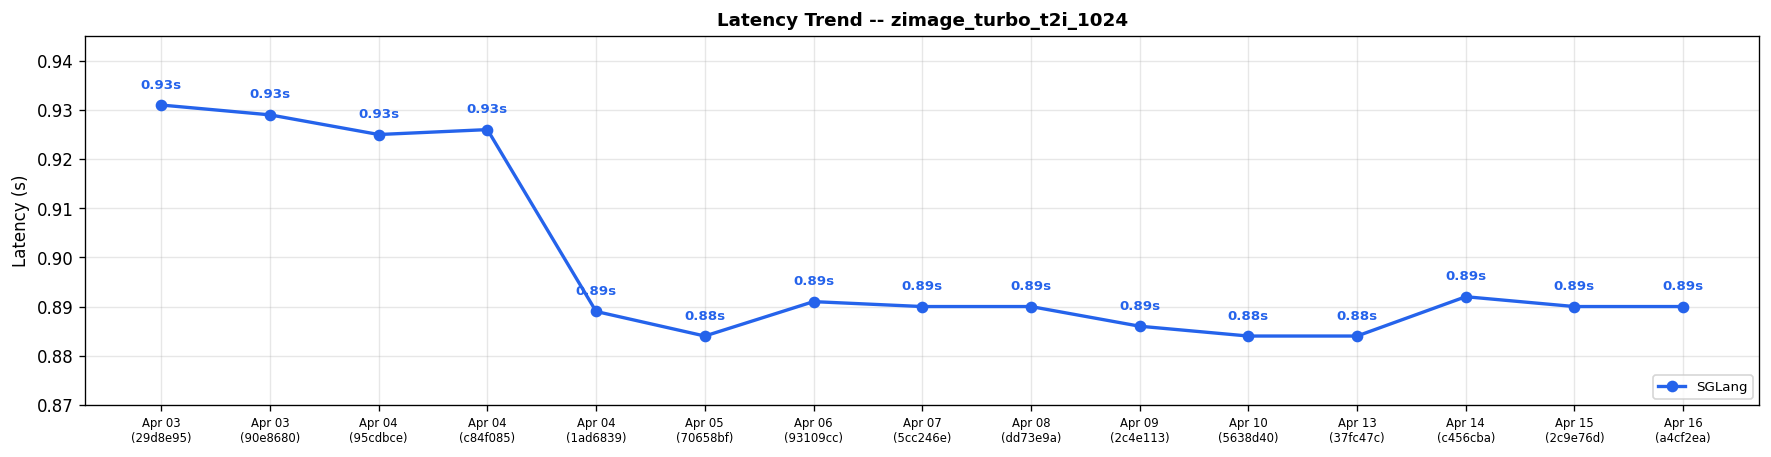
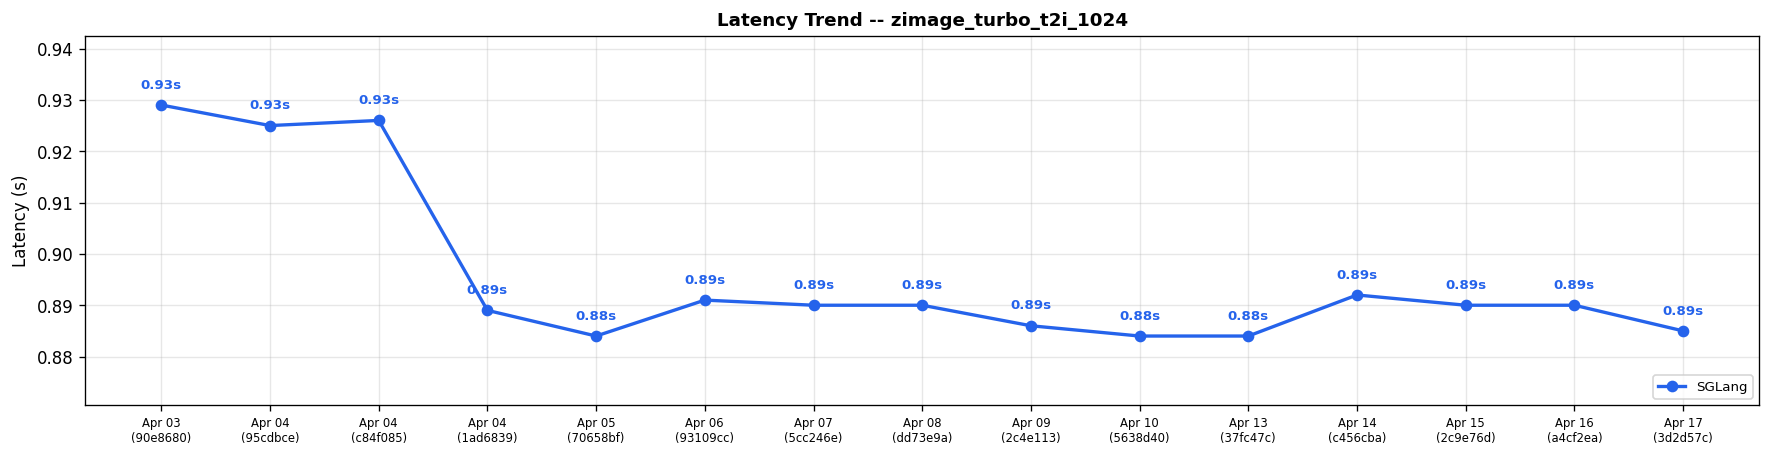
Diffusion comparison results for run 24541875545 (#570)

diff --git a/diffusion-comparisons/dashboard.md b/diffusion-comparisons/dashboard.md
@@ -1,27 +1,27 @@
 # Diffusion Cross-Framework Performance Dashboard
 
-*Generated: Apr 16 | Commit: `a4cf2ea`*
+*Generated: Apr 17 | Commit: `3d2d57c`*
 
 > [!WARNING]
 > **Performance Regression Detected**
 >
-> - **qwen_image_2512_t2i_1024** (sglang): 13.14s -> 14.08s (+7.2%)
+> - **ltx2.3_twostage_ti2v_2gpus** (sglang): 59.20s -> 62.20s (+5.1%)
 
 
 ## Cross-Framework Performance Comparison
 
 | Model | Risk | sglang (s) |
 |-------|------|---------|
-| FLUX.1-dev | ✅ | **6.70** |
-| FLUX.2-dev | ✅ | **22.90** |
-| Qwen-Image-2512 | ⚠ | **14.08** |
-| Qwen-Image-Edit-2511 | ✅ | **23.93** |
+| FLUX.1-dev | ✅ | **6.69** |
+| FLUX.2-dev | ✅ | **22.82** |
+| Qwen-Image-2512 | ✅ | **13.12** |
+| Qwen-Image-Edit-2511 | ✅ | **23.80** |
 | Z-Image-Turbo | ✅ | **0.89** |
-| Wan2.2-T2V-A14B-Diffusers | ✅ | **210.73** |
-| Wan2.2-TI2V-5B-Diffusers | ✅ | **62.15** |
-| LTX-2 | ✅ | **14.86** |
-| LTX-2.3 | ✅ | **59.20** |
-| Wan2.2-I2V-A14B-Diffusers | ✅ | **206.60** |
+| Wan2.2-T2V-A14B-Diffusers | ✅ | **210.28** |
+| Wan2.2-TI2V-5B-Diffusers | ✅ | **62.19** |
+| LTX-2 | ✅ | **15.47** |
+| LTX-2.3 | ⚠ | **62.20** |
+| Wan2.2-I2V-A14B-Diffusers | ✅ | **205.63** |
 
 ### Latency Trend: flux1_dev_t2i_1024
 
@@ -77,6 +77,7 @@
 
 | Date | Commit | flux1_dev_t2i_1024 (s) | flux2_dev_t2i_1024 (s) | qwen_image_2512_t2i_1024 (s) | qwen_image_edit_2511 (s) | zimage_turbo_t2i_1024 (s) | wan22_t2v_a14b_720p (s) | wan22_ti2v_5b_720p (s) | ltx2_twostage_t2v (s) | ltx2.3_twostage_ti2v_2gpus (s) | wan22_i2v_a14b_720p (s) | Trend |
 |------|--------|---------|---------|---------|---------|---------|---------|---------|---------|---------|---------|-------|
+| Apr 17 | `3d2d57c` | 6.69 | 22.82 | 13.12 | 23.80 | 0.89 | 210.28 | 62.19 | 15.47 | 62.20 | 205.63 | :left_right_arrow:  :left_right_arrow:  :arrow_down:  :left_right_arrow:  :left_right_arrow:  :left_right_arrow:  :left_right_arrow:  :arrow_up:  :arrow_up:  :left_right_arrow: |
 | Apr 16 | `a4cf2ea` | 6.70 | 22.90 | 14.08 | 23.93 | 0.89 | 210.73 | 62.15 | 14.86 | 59.20 | 206.60 | :left_right_arrow:  :left_right_arrow:  :arrow_up:  :left_right_arrow:  :left_right_arrow:  :left_right_arrow:  :left_right_arrow:  :left_right_arrow:   :left_right_arrow: |
 | Apr 15 | `2c9e76d` | 6.69 | 22.78 | 13.14 | 23.82 | 0.89 | 209.49 | 63.18 | 14.97 | N/A | 206.58 | :left_right_arrow:  :left_right_arrow:  :left_right_arrow:  :left_right_arrow:  :left_right_arrow:  :left_right_arrow:  :left_right_arrow:  :arrow_up:   :left_right_arrow: |
 | Apr 14 | `c456cba` | 6.70 | 22.85 | 13.17 | 23.83 | 0.89 | 210.52 | 62.16 | 14.58 | N/A | 206.54 | :left_right_arrow:  :left_right_arrow:  :left_right_arrow:  :left_right_arrow:  :left_right_arrow:  :left_right_arrow:  :left_right_arrow:  :left_right_arrow:   :left_right_arrow: |
@@ -90,14 +91,13 @@
 | Apr 04 | `1ad6839` | 6.71 | 22.85 | 13.56 | 29.57 | 0.89 | 16.10 | 64.20 | N/A | N/A | 21.07 | :arrow_down:  :left_right_arrow:  :arrow_up:  :arrow_up:  :arrow_down:  :arrow_down:  :arrow_up:    :arrow_down: |
 | Apr 04 | `c84f085` | 6.86 | 22.87 | 13.16 | 23.95 | 0.93 | 210.88 | 62.21 | 14.89 | N/A | 206.55 | :arrow_up:  :left_right_arrow:  :arrow_down:  :arrow_down:  :left_right_arrow:  :arrow_up:  :left_right_arrow:    :arrow_up: |
 | Apr 04 | `95cdbce` | 6.68 | 22.80 | 13.51 | 29.41 | 0.93 | 16.14 | 63.19 | N/A | N/A | 21.07 | :left_right_arrow:  :left_right_arrow:  :left_right_arrow:  :left_right_arrow:  :left_right_arrow:  :left_right_arrow:  :left_right_arrow:    :left_right_arrow: |
-| Apr 03 | `90e8680` | 6.72 | 22.89 | 13.57 | 29.56 | 0.93 | 16.09 | 62.17 | N/A | N/A | 21.06 | :left_right_arrow:  :left_right_arrow:  :left_right_arrow:  :left_right_arrow:  :left_right_arrow:  :arrow_down:  :left_right_arrow:    :left_right_arrow: |
-| Apr 03 | `29d8e95` | 6.69 | 22.88 | 13.55 | 29.62 | 0.93 | 16.57 | 62.18 | N/A | N/A | 21.07 | -- |
+| Apr 03 | `90e8680` | 6.72 | 22.89 | 13.57 | 29.56 | 0.93 | 16.09 | 62.17 | N/A | N/A | 21.06 | -- |
 
 > [!CAUTION]
 > **Action Required — Performance Alert**
 >
 > The following cases need attention:
-> - qwen_image_2512_t2i_1024: SGLang regression +7.5% vs 3-run avg (14.08s vs 13.10s)
+> - ltx2.3_twostage_ti2v_2gpus: SGLang regression +5.1% vs 3-run avg (62.20s vs 59.20s)
 
 
 ---
